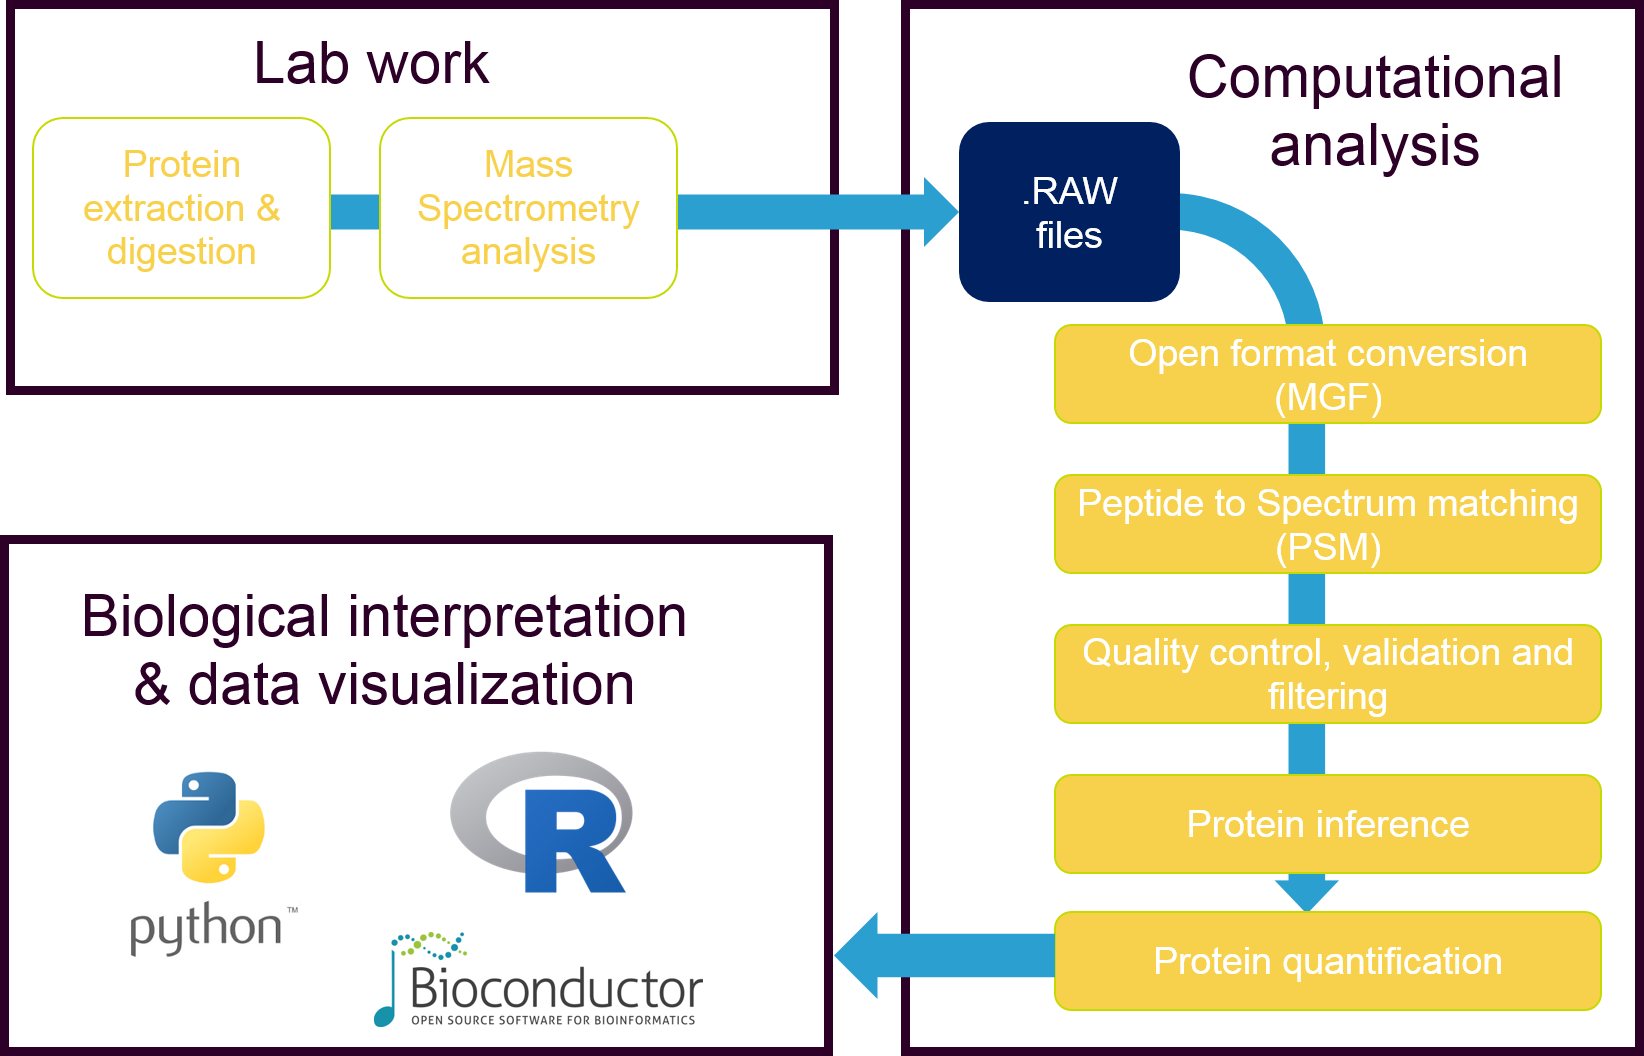
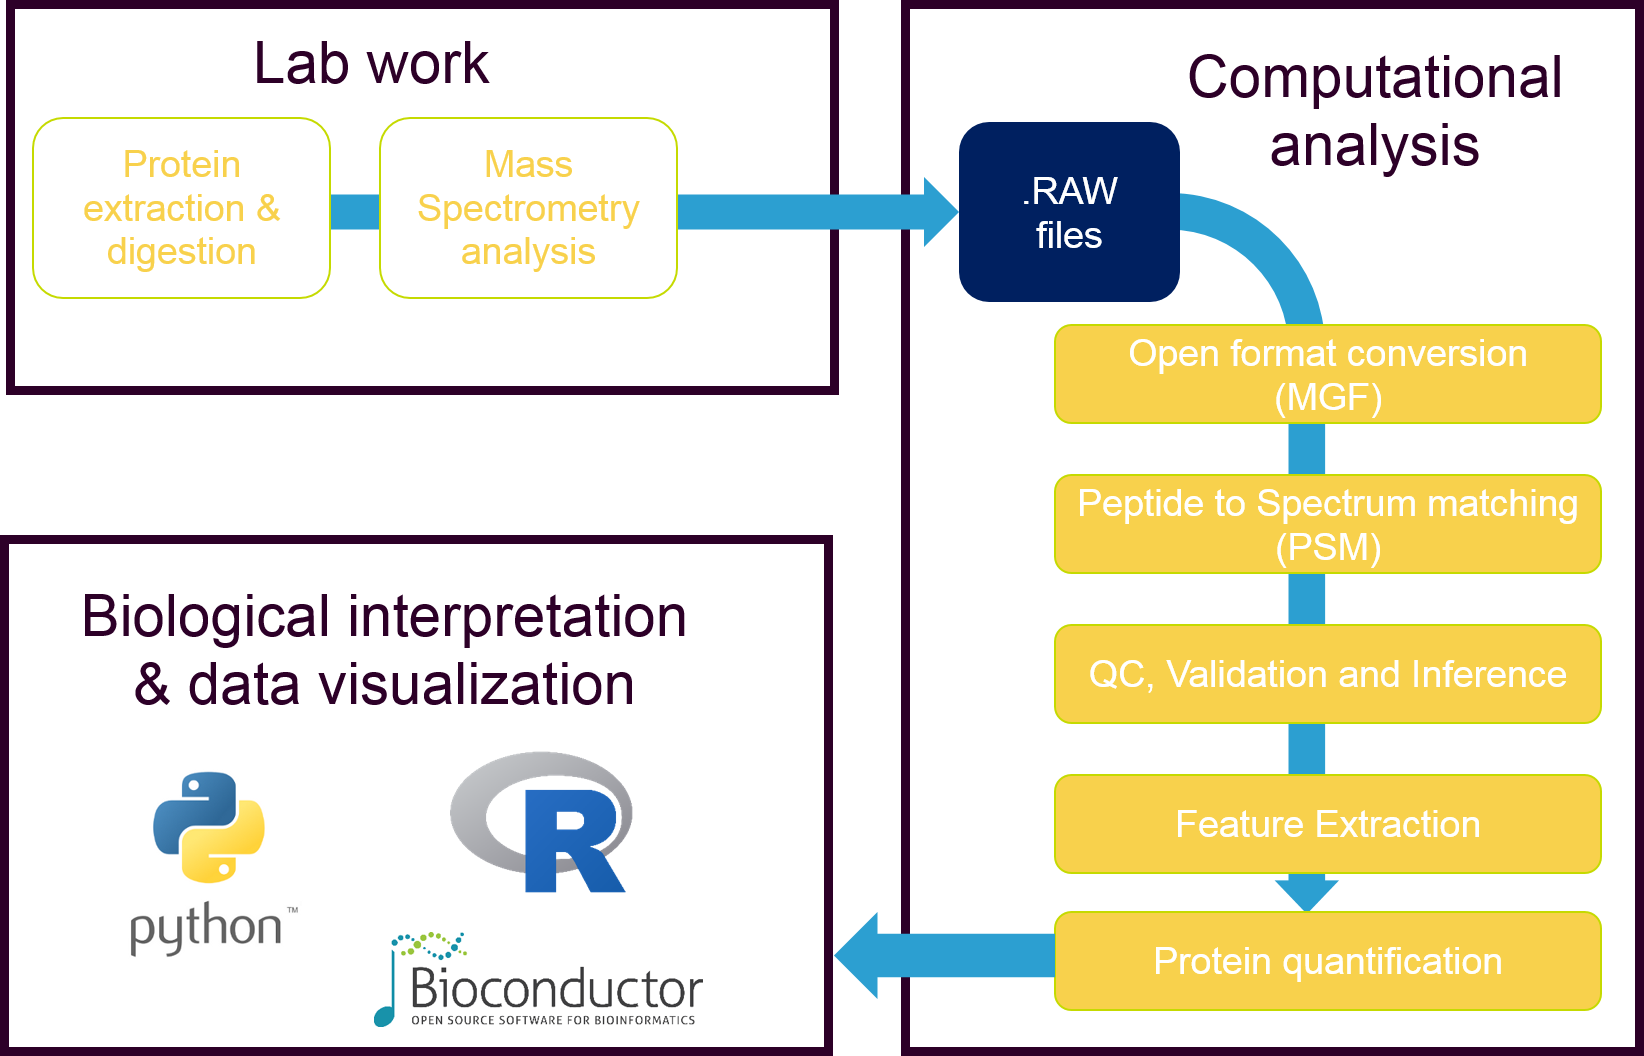
Started results chap 2

Changed region(s): [[0.6515, 0.5938, 0.9617, 0.6875], [0.7135, 0.75, 0.8996, 0.8125]]

diff --git a/report.tex b/report.tex
@@ -620,51 +620,73 @@ It is for this reason that peptide-based models offer the statistical framework 
 
 
 \section*{Summary}
-A pipeline making use of the set of tools published by the Compomics  and StatOmics groups SearchGUI, PeptideShaker, moFF and MSqRob CITE THEM, was developed to support complete label-free protein quantification analyses using the most recent advances in the field with open-source software. The pipeline can be run on Linux computer clusters to perform (I) peptide to spectrum matching against a reference database, (II) quality control and filtering, (III) feature extraction, (IV) protein inference and (V) relative quantification. Its output can be passed to follow-up analyses in R or Python to get a biological interpretation of the results.  A benchmark of its performance was accomplished using the proteome benchmark dataset published in \cite{Cox2014}. The results exhibited an accuracy similar to those achieved by the MaxLFQ \cite{Cox2014} software, excepting a bias produced by the sample fraction of this dataset.
+A pipeline making use of the set of tools published by the Compomics  and StatOmics groups SearchGUI, PeptideShaker, moFF and MSqRob CITE THEM, was developed to support complete label-free protein quantification analyses using the most recent advances in the field with open-source software. The pipeline can be run on Linux computer clusters to perform (I) peptide to spectrum matching against a reference database, (II) quality control and filtering, (III) feature extraction, (IV) protein inference and (V) relative quantification. Its output can be passed to follow-up analyses in R or Python to get a biological interpretation of the results.  A benchmark of its performance was accomplished using the proteome benchmark dataset published in \cite{Cox2014}. The results exhibited an accuracy similar to those achieved by the MaxLFQ \cite{Cox2014} software, excepting a bias produced by the sample fractionation of this dataset.
 
 
 \section{Introduction}
 
-Several proteomics pipelines are available on the internet under different licensing conditions. Many are released as closed-source software, where information on how the program works is kept from the user. This is a serious drawback as it hinders the study of the implemented modelling frameworks and its customisation. Open-source, free alternatives, like the Trans Proteomic Pipeline (\ac{TPP}) or openMS  CITE ALL are nevertheless available for the community. MaxQuant, a free but closed-source proteomics analysis suite CITE MAXQUANT, has been extremely successfully adopted by the scientific community due to its ease of use and a comprehensive pipeline.
+Several proteomics pipelines are available on the internet under different licensing conditions. Many are released as closed-source software, where information on how the program works is kept from the user. This is a serious drawback as it hinders the study of the implemented models and its customisation. Open-source, free alternatives, like the Trans Proteomic Pipeline (\ac{TPP}) or openMS  CITE ALL are nevertheless available for the community. MaxQuant, a free but closed-source proteomics analysis suite CITE MAXQUANT, has been extremely successfully adopted by the scientific community due to its ease of use and a comprehensive pipeline.
 
 However, still only few of these tools have a fully Linux-supported, well-documented, command-line version available, which would make customised, automatic streamline analyses much easier to perform. As a GUI would not be required to run the pipeline, it would also be scalable to big datasets. Finally, having free licenses would imply that anyone, provided the technical knowledge, can perform the computational analysis independently, thus speeding the data to knowledge turnover in \ac{NZ} or any organization making use of it.
 
+The development of a pipeline achieving these goals will be described in this chapter.
 
 \section{Materials and Methods}
 
 \subsection{Data generation and loading}
 
-The proteome benchmark dataset from \cite{Cox2014} was reanalysed starting at the output RAW files available at the PRIDE repository \footnote{\href{https://www.ebi.ac.uk/pride/archive/projects/PXD000279}{https://www.ebi.ac.uk/pride/archive/projects/PXD000279}}. Briefly, the \textit{Homo sapiens} and \textit{E. coli (strain K12)} proteomes were mixed in 1:1 and 1:3 proportions, with 3 replicates for each combination. Moreover, each of the 3 replicates of the 2 conditions was analysed in 24 fractions. This experimental setting thus generated a total of 2*3*24=144 RAW files. The ThermoRawFileParser CITE THERMORAWFILEPARSER program was used to convert RAW files to the open format MGF (Mascot Generic Format) that can be used by the tools following the pipeline.
+The proteome benchmark dataset from \cite{Cox2014} was reanalysed starting at the output RAW files available at the PRIDE repository \footnote{\href{https://www.ebi.ac.uk/pride/archive/projects/PXD000279}{https://www.ebi.ac.uk/pride/archive/projects/PXD000279}}. Briefly, the \textit{Homo sapiens} and \textit{E. coli (strain K12)} proteomes were mixed in 1:1 and 1:3 proportions, with 3 replicates for each combination. Moreover, each of the 3 replicates of the 2 conditions was analysed in 24 fractions. This experimental setting thus generated a total of 2*3*24=144 RAW files. The ThermoRawFileParser CITE THERMORAWFILEPARSER program was used to convert RAW files to the open format MGF (Mascot Generic Format).
 
 
 \subsection{Decoy database preparation and search}
 
-The spectra contained in the MGF files obtained in the previous step were loaded onto the MS-GF+ search engine CITE using the SearchGUI \texttt{SearchCLI} CITE utility. The search parameters were set using the \texttt{IdentificationParametersCLI}. In order to account for potential post-translational modifications, the search was conducted allowing for the following variable modifications: oxidation of M and deamidation of N and Q. Moreover, C carbamidomethylation was set as fixed modification during the search. The enzyme was set to semispecific Trypsin, allowing for a non-tryptic cleavage on any side of the peptide. Up to two missed cleavages were allowed. The precursor tolerance was 10 ppm and the fragment tolerance 0.5 Da. 
+The spectra saved in the MGF files obtained in the previous step were passed to the MS-GF+ search engine CITE by means of the SearchGUI \texttt{SearchCLI} tool CITE utility. The search parameters were set using the \texttt{IdentificationParametersCLI}. In order to account for potential post-translational modifications, the search was conducted allowing for the following variable modifications: oxidation of M and deamidation of N and Q. Moreover, C carbamidomethylation was set as fixed modification. The enzyme was set to semispecific Trypsin, allowing for a non-tryptic cleavage on any side of the peptide. Up to two missed cleavages were allowed. The precursor tolerance was 10 ppm and the fragment tolerance 0.5 Da. 
 
 
-The database was created by combining the Uniprot proteomes for \textit{E. coli (strain K12)} (UP000000625) and \textit{Homo sapiens} (UP000005640), downloaded in June 2018. The decoy database was created using the \texttt{FastaCLI} utility in SearchGUI by reversing all sequences in the original database.
+The target database was created by combining the Uniprot proteomes for \textit{E. coli (strain K12)} (UP000000625) and \textit{Homo sapiens} (UP000005640), downloaded in June 2018. The decoy database was created using the \texttt{FastaCLI} utility in SearchGUI by reversing all sequences in the target.
 
 \subsection{Quality control and validation}
 
-The SearchGUI results were filtered using the default built-in checks available in the PeptideShaker utility \texttt{PeptideShakerCLI} \footnote{\href{https://github.com/compomics/peptide-shaker/issues/300}{https://github.com/compomics/peptide-shaker/issues/300}}. By default, the FDR is set to 1\%. Output was extracted via the Default PSM report, available in the \texttt{ReportCLI} utility
+The SearchGUI results were filtered using the default built-in checks available in the PeptideShaker utility \texttt{PeptideShakerCLI} \footnote{\href{https://github.com/compomics/peptide-shaker/issues/300}{https://github.com/compomics/peptide-shaker/issues/300}}. By default, the FDR was set to 1\%. Output was extracted via the Default PSM report txt file, available in the \texttt{ReportCLI} utility.
 
 
 \subsection{Data refinement}
 
-The moFF command line utility CITE was used to perform a match-between-runs and extract apex intensity of each peak cluster. This required reinputing the original RAW files, together with the txt files produced by the Default PSM report from PeptideShaker. Output was exported to a peptide summary file, containing  one row per peptide and for every peptide, the detected apex intensity in each sample.
+The moFF command line utility CITE was applied to perform (I) match-between-runs and (II) extract MS1 apex intensity of each peak cluster. This required passing the original RAW files, together with the Default PSM report from PeptideShaker. Output was exported to a peptide summary file, containing  one row per peptide and for every peptide, the detected apex intensity in each sample.
 
 \subsection{Quantification}
 
-Relative quantification was performed using the MSqRob utility by passing the peptide summary file from moFF. Prior to quantification, the data was preprocessed using the \texttt{preprocess\_MSnSet()} function. In a nutshell, (I) MS1 apex intensities were $log_2$ transformed, (II) peptides belonging to protein groups that contained one or more proteins that were also present in a smaller protein group CITE MAIN MSQROB were discarded, and (III) protein groups with only 1 peptide were dropped. Intensity normalisation was not performed as a systematic bias in intensities is indeed expected for all \textit{E. coli} peptides from samples where the \textit{E. coli}proteome was 3 times more abundant.
+Relative quantification was performed using the MSqRob utility by passing the peptide summary file from moFF. Prior to quantification, the data was preprocessed using the \texttt{preprocess\_MSnSet()} function. In a nutshell, (I) MS1 apex intensities were $log_2$ transformed, (II) peptides belonging to protein groups that contained one or more proteins that were also present in a smaller protein group were discarded CITE MAIN MSQROB, and (III) protein groups with only 1 peptide were dropped. Intensity normalisation was not performed as a systematic bias in intensities is indeed expected for all \textit{E. coli} peptides from samples where the \textit{E. coli}proteome was 3 times more abundant.
 
-One preprocessing is done, a ridge regression model with Huber weights and empirical Bayes estimation of the protein variance was fit to every protein individually. The significance of the treatment effect differences was assessed through a Student\textquotesingle s T test, implemented in the \texttt{test.contrast()} function.
-
-The result of this step was a table where the $log_2(FC)$ estimate, together with test statistics are returned for every protein group.
-
-
+Once preprocessing is done, a ridge regression model with Huber weights and empirical Bayes estimation of the protein variance was fit to every protein individually. The significance of the treatment effect differences was assessed through a Student\textquotesingle s T test, implemented in the \texttt{test.contrast()} function.
 
 \section{Results and Discussion}
 
+\subsection{Peptide to spectrum matching step was successful}
+
+The reanalysis of the proteome benchmark started with the preprocessing of the RAW files produced by the mass spectrometer into an open format that can be handled by downstream tools, such as SearchGUI.
+
+SearchGUI and PeptideShaker su
+
+Identifications decrease with the fraction
+Many spectra cannot be matched -> de novo, modification handling, etc
+Several search engines improve identifications
+
+
+\begin{figure}[!h]
+\includegraphics[width=\textwidth]{match_percent}
+\caption{}
+\label{fig:match_percent}
+\end{figure}
+
+
+\begin{figure}[!h]
+\includegraphics[width=\textwidth]{pipeline}
+\caption{Pipeline}
+\label{fig:pipeline}
+\end{figure}
+
+The result of this step was a table where the $log_2(FC)$ estimate, together with test statistics are returned for every protein group.
 
 
 
